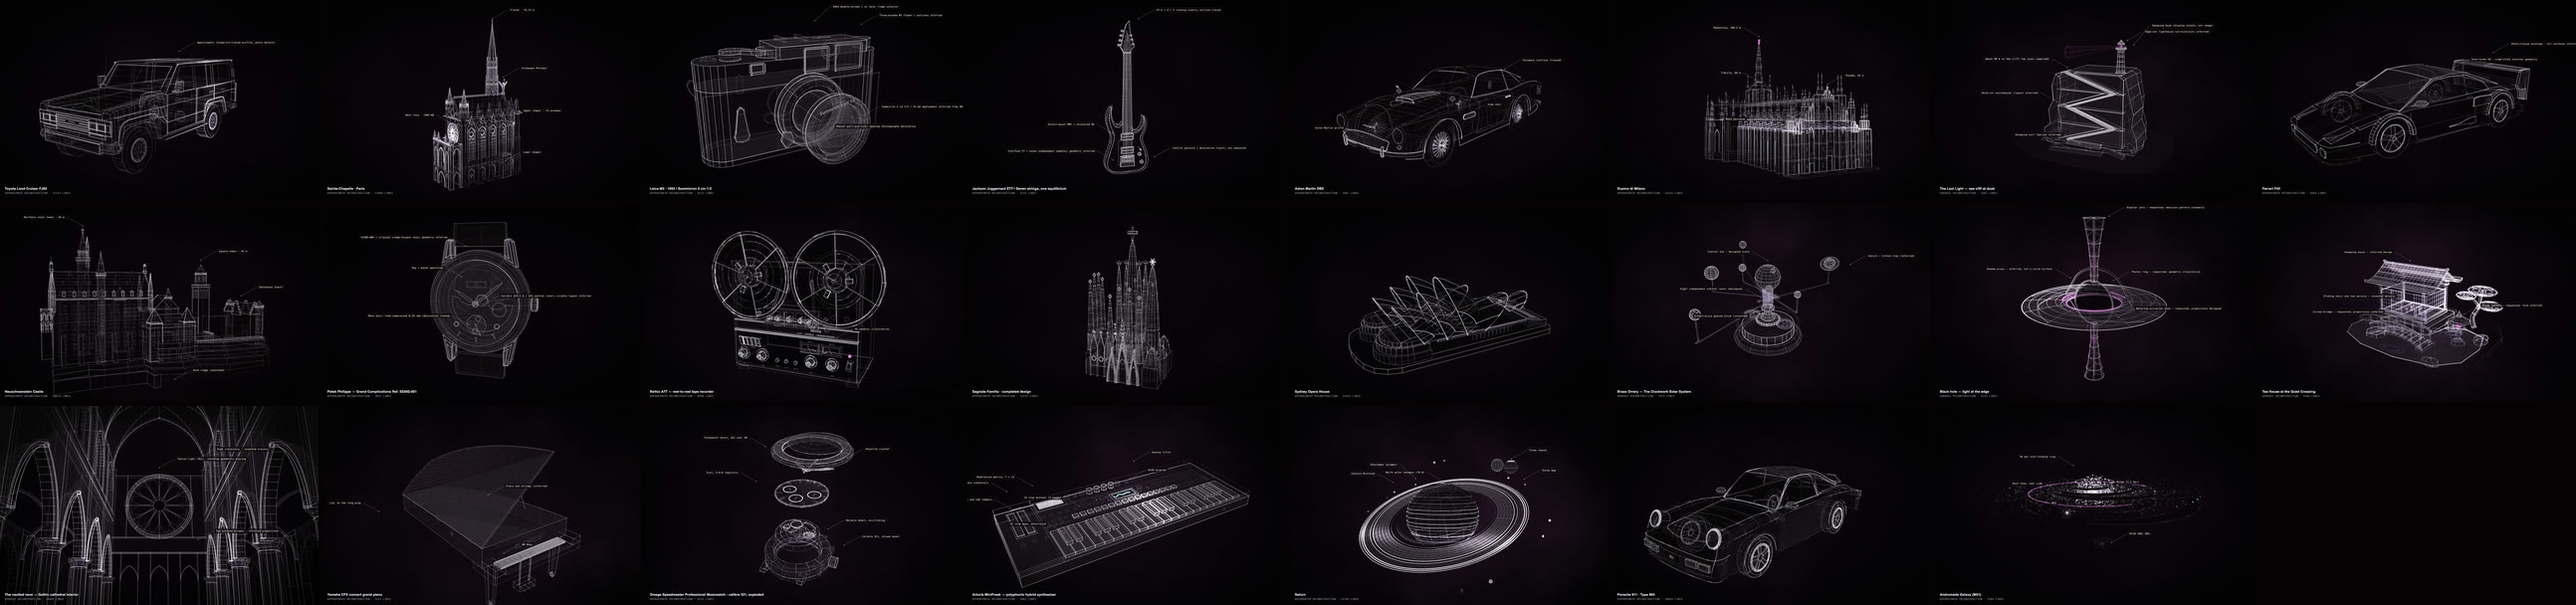
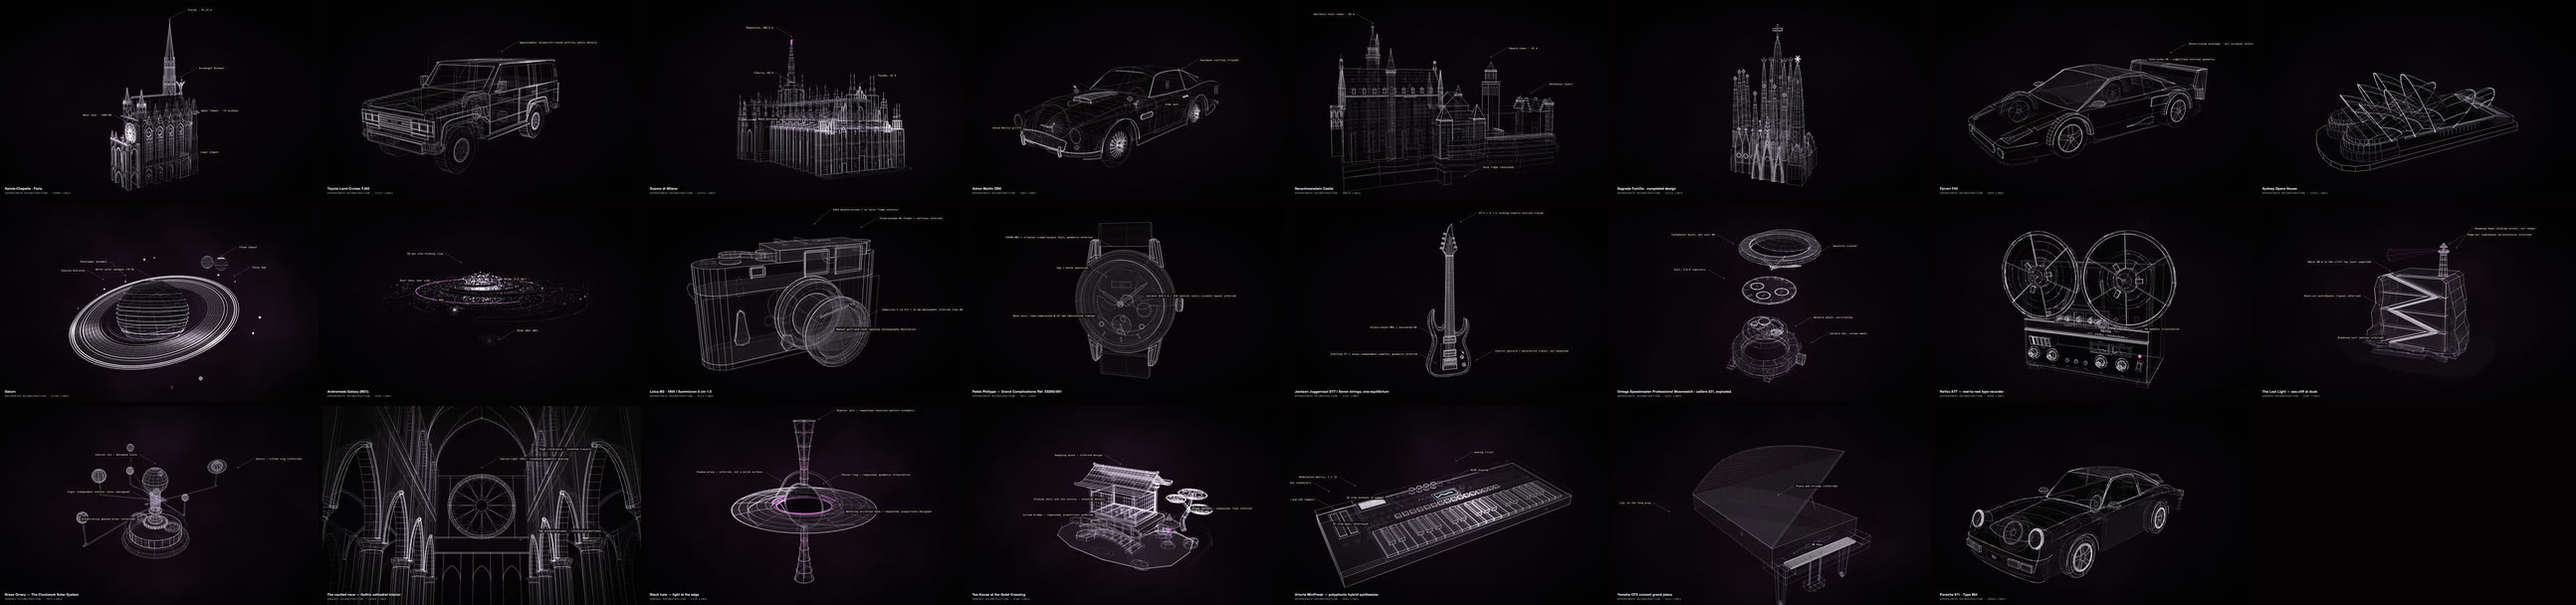
README and examples: complex constructs first, a cleaner front page
- Examples ordered complex objects first, older or simpler ones lower, in
  examples.json, the examples index, the contact sheet and the gallery.
- README: badges (MIT, 0.2.1, Python 3.10+, no dependencies), the three
  most complex constructs assembling (Sainte-Chapelle, FJ62, Duomo di
  Milano), the examples grid after them, and a short contents line.
- Unused media removed (the old hero, opening and gallery images).
- PUBLISHING: a private review first, and the About text and topics.
- CONTRACT: the geometry schema link points at its file.

diff --git a/examples/README.md b/examples/README.md
@@ -11,29 +11,29 @@ now includes round 15, the round its scene comes from.
 
 | | example | model | how | made with |
 |---|---|---|---|---|
-| [![Toyota Land Cruiser FJ62](toyota-land-cruiser-fj62/thumb.jpg)](toyota-land-cruiser-fj62/) | [Toyota Land Cruiser FJ62](toyota-land-cruiser-fj62/) | Claude Opus | masterpiece rounds, round 11 | a Construct 0.2.1 release-candidate build (the c2p rounds variant) |
 | [![Sainte-Chapelle](sainte-chapelle/thumb.jpg)](sainte-chapelle/) | [Sainte-Chapelle](sainte-chapelle/) | Claude Opus | masterpiece rounds, round 15 | Construct 0.2.1 (the released rounds loop) |
-| [![Leica M3](leica-m3/thumb.jpg)](leica-m3/) | [Leica M3](leica-m3/) | GPT-6.1 Sol | research first, standard (10 minutes) | a Construct 0.2.0 development build |
-| [![Jackson Juggernaut ET7](jackson-juggernaut-et7/thumb.jpg)](jackson-juggernaut-et7/) | [Jackson Juggernaut ET7](jackson-juggernaut-et7/) | GPT-6.1 Sol | research first, standard (10 minutes) | a Construct 0.2.0 development build |
-| [![Aston Martin DB5](aston-martin-db5/thumb.jpg)](aston-martin-db5/) | [Aston Martin DB5](aston-martin-db5/) | Claude Opus | masterpiece rounds, round 5 | a Construct 0.2.1 development build |
+| [![Toyota Land Cruiser FJ62](toyota-land-cruiser-fj62/thumb.jpg)](toyota-land-cruiser-fj62/) | [Toyota Land Cruiser FJ62](toyota-land-cruiser-fj62/) | Claude Opus | masterpiece rounds, round 11 | a Construct 0.2.1 release-candidate build (the c2p rounds variant) |
 | [![Duomo di Milano](duomo-di-milano/thumb.jpg)](duomo-di-milano/) | [Duomo di Milano](duomo-di-milano/) | Claude Opus | masterpiece rounds, round 6 | a Construct 0.2.1 development build |
-| [![The Last Light: sea cliff at dusk](the-last-light/thumb.jpg)](the-last-light/) | [The Last Light: sea cliff at dusk](the-last-light/) | GPT-6.1 Sol | a single first pass | a Construct 0.2.0 development build |
-| [![Ferrari F40](ferrari-f40/thumb.jpg)](ferrari-f40/) | [Ferrari F40](ferrari-f40/) | GPT-6.1 Sol | masterpiece | a Construct 0.2.1 development build |
+| [![Aston Martin DB5](aston-martin-db5/thumb.jpg)](aston-martin-db5/) | [Aston Martin DB5](aston-martin-db5/) | Claude Opus | masterpiece rounds, round 5 | a Construct 0.2.1 development build |
 | [![Neuschwanstein](neuschwanstein/thumb.jpg)](neuschwanstein/) | [Neuschwanstein](neuschwanstein/) | Claude Opus | masterpiece, stopped at the 2-hour limit | a Construct 0.2.1 development build |
-| [![Patek Philippe 5320G](patek-philippe-5320g/thumb.jpg)](patek-philippe-5320g/) | [Patek Philippe 5320G](patek-philippe-5320g/) | GPT-6.1 Sol | research first, standard (10 minutes) | a Construct 0.2.0 development build |
-| [![Revox A77](revox-a77/thumb.jpg)](revox-a77/) | [Revox A77](revox-a77/) | DeepSeek | showcase (30 minutes) | a Construct 0.2.1 development build |
 | [![Sagrada Família](sagrada-familia/thumb.jpg)](sagrada-familia/) | [Sagrada Família](sagrada-familia/) | GPT-6.1 Sol | masterpiece | a Construct 0.2.1 development build |
+| [![Ferrari F40](ferrari-f40/thumb.jpg)](ferrari-f40/) | [Ferrari F40](ferrari-f40/) | GPT-6.1 Sol | masterpiece | a Construct 0.2.1 development build |
 | [![Sydney Opera House](sydney-opera-house/thumb.jpg)](sydney-opera-house/) | [Sydney Opera House](sydney-opera-house/) | GPT-6.1 Sol | masterpiece | a Construct 0.2.1 development build |
+| [![Saturn](saturn/thumb.jpg)](saturn/) | [Saturn](saturn/) | DeepSeek | masterpiece mode, through Hermes | Construct 0.2.1 |
+| [![Andromeda Galaxy (M31)](andromeda-galaxy/thumb.jpg)](andromeda-galaxy/) | [Andromeda Galaxy (M31)](andromeda-galaxy/) | DeepSeek | masterpiece mode, through Hermes (last round self-reviewed) | Construct 0.2.1 |
+| [![Leica M3](leica-m3/thumb.jpg)](leica-m3/) | [Leica M3](leica-m3/) | GPT-6.1 Sol | research first, standard (10 minutes) | a Construct 0.2.0 development build |
+| [![Patek Philippe 5320G](patek-philippe-5320g/thumb.jpg)](patek-philippe-5320g/) | [Patek Philippe 5320G](patek-philippe-5320g/) | GPT-6.1 Sol | research first, standard (10 minutes) | a Construct 0.2.0 development build |
+| [![Jackson Juggernaut ET7](jackson-juggernaut-et7/thumb.jpg)](jackson-juggernaut-et7/) | [Jackson Juggernaut ET7](jackson-juggernaut-et7/) | GPT-6.1 Sol | research first, standard (10 minutes) | a Construct 0.2.0 development build |
+| [![Omega Speedmaster, calibre 321](omega-speedmaster-321/thumb.jpg)](omega-speedmaster-321/) | [Omega Speedmaster, calibre 321](omega-speedmaster-321/) | DeepSeek | research first, standard (10 minutes) | a Construct 0.2.0 development build |
+| [![Revox A77](revox-a77/thumb.jpg)](revox-a77/) | [Revox A77](revox-a77/) | DeepSeek | showcase (30 minutes) | a Construct 0.2.1 development build |
+| [![The Last Light: sea cliff at dusk](the-last-light/thumb.jpg)](the-last-light/) | [The Last Light: sea cliff at dusk](the-last-light/) | GPT-6.1 Sol | a single first pass | a Construct 0.2.0 development build |
 | [![Brass orrery](brass-orrery/thumb.jpg)](brass-orrery/) | [Brass orrery](brass-orrery/) | GPT-6.1 Sol | a single first pass | a Construct 0.2.0 development build |
+| [![Gothic cathedral nave](gothic-cathedral-nave/thumb.jpg)](gothic-cathedral-nave/) | [Gothic cathedral nave](gothic-cathedral-nave/) | GPT-6.1 Sol | a single first pass | a Construct 0.2.0 development build |
 | [![Black hole](black-hole/thumb.jpg)](black-hole/) | [Black hole](black-hole/) | GPT-6.1 Sol | a single first pass | a Construct 0.2.0 development build |
 | [![Tea house](tea-house/thumb.jpg)](tea-house/) | [Tea house](tea-house/) | GPT-6.1 Sol | a single first pass | a Construct 0.2.0 development build |
-| [![Gothic cathedral nave](gothic-cathedral-nave/thumb.jpg)](gothic-cathedral-nave/) | [Gothic cathedral nave](gothic-cathedral-nave/) | GPT-6.1 Sol | a single first pass | a Construct 0.2.0 development build |
-| [![Yamaha CFX](yamaha-cfx/thumb.jpg)](yamaha-cfx/) | [Yamaha CFX](yamaha-cfx/) | DeepSeek | standard (10 minutes) | Construct 0.2.0 |
-| [![Omega Speedmaster, calibre 321](omega-speedmaster-321/thumb.jpg)](omega-speedmaster-321/) | [Omega Speedmaster, calibre 321](omega-speedmaster-321/) | DeepSeek | research first, standard (10 minutes) | a Construct 0.2.0 development build |
 | [![Arturia MiniFreak](arturia-minifreak/thumb.jpg)](arturia-minifreak/) | [Arturia MiniFreak](arturia-minifreak/) | DeepSeek | a single first pass | a Construct 0.2.0 development build |
-| [![Saturn](saturn/thumb.jpg)](saturn/) | [Saturn](saturn/) | DeepSeek | masterpiece mode, through Hermes | Construct 0.2.1 |
+| [![Yamaha CFX](yamaha-cfx/thumb.jpg)](yamaha-cfx/) | [Yamaha CFX](yamaha-cfx/) | DeepSeek | standard (10 minutes) | Construct 0.2.0 |
 | [![Porsche 911 (964)](porsche-911-964/thumb.jpg)](porsche-911-964/) | [Porsche 911 (964)](porsche-911-964/) | GPT-6.1 Sol | masterpiece | Construct 0.2.0 |
-| [![Andromeda Galaxy (M31)](andromeda-galaxy/thumb.jpg)](andromeda-galaxy/) | [Andromeda Galaxy (M31)](andromeda-galaxy/) | DeepSeek | masterpiece mode, through Hermes (last round self-reviewed) | Construct 0.2.1 |
 
 Product and place names belong to their owners. Each construct is an independent reconstruction
 from public references, not an official model; the scenes cite their sources, and no reference

diff --git a/README.md b/README.md
@@ -2,21 +2,27 @@
 
 **Holographic constructs any AI agent can build: from a description, honestly.**
 
+[![License: MIT](https://img.shields.io/badge/license-MIT-d16bd0)](LICENSE)
+[![Version 0.2.1](https://img.shields.io/badge/version-0.2.1-d16bd0)](CHANGELOG.md)
+[![Python 3.10+](https://img.shields.io/badge/python-3.10%2B-d16bd0)](docs/USING.md#requirements)
+[![Standard library only](https://img.shields.io/badge/dependencies-none-d16bd0)](NOTICE)
+
 <table>
 <tr>
-<td width="33%"><a href="https://rtmandreyev.github.io/construct/examples/toyota-land-cruiser-fj62/"><img src="docs/media/assembly-toyota-land-cruiser-fj62.gif" alt="A Toyota Land Cruiser FJ62 construct assembling itself"></a></td>
 <td width="33%"><a href="https://rtmandreyev.github.io/construct/examples/sainte-chapelle/"><img src="docs/media/assembly-sainte-chapelle.gif" alt="A Sainte-Chapelle construct assembling itself"></a></td>
-<td width="33%"><a href="https://rtmandreyev.github.io/construct/examples/leica-m3/"><img src="docs/media/assembly-leica-m3.gif" alt="A Leica M3 construct assembling itself"></a></td>
+<td width="33%"><a href="https://rtmandreyev.github.io/construct/examples/toyota-land-cruiser-fj62/"><img src="docs/media/assembly-toyota-land-cruiser-fj62.gif" alt="A Toyota Land Cruiser FJ62 construct assembling itself"></a></td>
+<td width="33%"><a href="https://rtmandreyev.github.io/construct/examples/duomo-di-milano/"><img src="docs/media/assembly-duomo-di-milano.gif" alt="A Duomo di Milano construct assembling itself"></a></td>
 </tr>
 <tr>
-<td align="center"><b>Toyota Land Cruiser FJ62</b><br><sub>Claude Opus · masterpiece</sub></td>
 <td align="center"><b>Sainte-Chapelle</b><br><sub>Claude Opus · masterpiece</sub></td>
-<td align="center"><b>Leica M3</b><br><sub>GPT-6.1 Sol · fast</sub></td>
+<td align="center"><b>Toyota Land Cruiser FJ62</b><br><sub>Claude Opus · masterpiece</sub></td>
+<td align="center"><b>Duomo di Milano</b><br><sub>Claude Opus · masterpiece</sub></td>
 </tr>
 </table>
 
-<p align="center"><a href="https://rtmandreyev.github.io/construct/"><b>See all 23 examples live →</b></a>
-&nbsp;·&nbsp; click any construct to orbit it, replay its assembly and read its labels</p>
+<p align="center"><a href="https://rtmandreyev.github.io/construct/"><img src="docs/media/examples.jpg" alt="23 constructs made by AI agents: cars, cathedrals, watches, instruments, a planet and a galaxy"></a></p>
+
+<p align="center"><a href="https://rtmandreyev.github.io/construct/"><b>See all 23 examples live</b></a> · open any construct to orbit it, replay its assembly and read its labels</p>
 
 Construct is an agent skill and toolkit that turns a description of a real or fictional thing
 into an animated holographic model: line light over smoked glass, built part by part on screen,
@@ -33,6 +39,10 @@ service: Python's standard library and any browser.
 - **One house style.** Models never choose colours, so a construct by a small model sits next to
   one by a frontier model.
 - **Repairs itself.** Every problem comes back with a JSON path, a code and a fix hint.
+
+**Contents:** [Quick start](#quick-start) · [Three modes](#three-modes) ·
+[Recommended models](#recommended-models) · [How it works](#how-it-works) · [Examples](#examples) ·
+[Documentation](#documentation) · [Limitations](#limitations) · [License and credits](#license-and-credits)
 
 ## Quick start
 
@@ -122,11 +132,9 @@ reference outline with `construct compare`.
 
 ## Examples
 
-[![23 constructs made by AI agents](docs/media/examples.jpg)](https://rtmandreyev.github.io/construct/)
-
-Twenty-three constructs made by Claude Opus, GPT-6.1 Sol and DeepSeek, from a Leica to the
-Andromeda Galaxy. Open the **[live gallery](https://rtmandreyev.github.io/construct/)**, or see
-[examples/](examples/) for each scene and how it was made.
+Twenty-three constructs made by Claude Opus, GPT-6.1 Sol and DeepSeek, from the Sainte-Chapelle
+to a Yamaha concert grand. Open the **[live gallery](https://rtmandreyev.github.io/construct/)**, or see [examples/](examples/) for
+each scene, its hero image and how it was made.
 
 ## Documentation
 

diff --git a/PUBLISHING.md b/PUBLISHING.md
@@ -23,6 +23,18 @@ Commits here use the GitHub private address `269336670+rtmandreyev@users.noreply
 If "Block command line pushes that expose my email" is on in your GitHub email settings,
 pushes still go through.
 
+**Reviewing it privately first?** Create it with `--private` instead. Everything in `main`
+renders the same; GitHub Pages for a private repository needs a paid plan, so the gallery links
+in the README work once the repository is public (or Pages is enabled on such a plan).
+Making it public later: **Settings → General → Danger Zone → Change visibility**, then step 4.
+
+**About and topics** (the repository page's gear icon next to "About"):
+
+- Description: *Holographic constructs any AI agent can build: from a description, honestly.*
+- Website: https://rtmandreyev.github.io/construct/
+- Topics: `ai-agents`, `agent-skills`, `claude-code`, `mcp`, `webgl`, `hologram`,
+  `procedural-generation`, `3d-visualization`, `llm`, `python`
+
 ## 2. Push `main` and the tag
 
 ```sh
@@ -76,4 +88,4 @@ others, and rebuild.
 
 Nothing but static files: every link is relative, each construct is one self-contained
 `construct.html` (plain WebGL2, no external scripts, fonts or styles), and `.nojekyll` tells
-GitHub Pages to serve the files as they are. It is about 37 MB.
+GitHub Pages to serve the files as they are. It is about 41 MB.

diff --git a/CONTRACT.md b/CONTRACT.md
@@ -28,7 +28,7 @@ geometry should accept both geometry ids until 0.3. The v0.1 construction sheets
 A renderer consumes **geometry**, never scenes: everything in it is explicit (line segments,
 triangles, sprites, styles, phases, transform slots, face quads). No renderer needs to
 interpret shapes, run code or fetch anything. Its structure and budgets are published as
-[`geometry.schema.json`](geometry.schema.json) (JSON Schema 2020-12); a consumer re-validates
+[`geometry.schema.json`](construct_hologram/geometry.schema.json) (JSON Schema 2020-12); a consumer re-validates
 structure, budgets and `scene_sha256` itself and never trusts compiler output blindly. Keep
 the source scene next to its geometry; `scene_sha256` binds them. The v1 `tessera-geometry`
 segment list stays available (`build --v1`, `scene.to_v1`).
